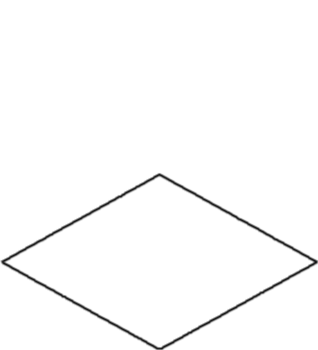
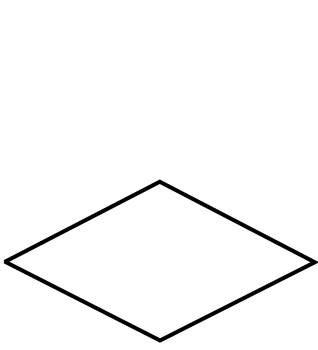
Tile selecting

Changed region(s): [[0.0, 0.4857, 1.0, 1.0]]

diff --git a/core/src/com/nicweiss/editor/Views/Editor.java b/core/src/com/nicweiss/editor/Views/Editor.java
@@ -4,30 +4,49 @@ import com.badlogic.gdx.Gdx;
 import com.badlogic.gdx.graphics.GL20;
 import com.badlogic.gdx.graphics.Texture;
 import com.badlogic.gdx.graphics.g2d.SpriteBatch;
+import com.badlogic.gdx.math.Vector3;
 import com.nicweiss.editor.Generic.View;
+import com.nicweiss.editor.Main;
 
 
 public class Editor extends View{
-    Texture tile;
-    float opacity;
-    int counter;
+    Texture dot, tile;
     int[][]  map;
-    int tileSizeX;
-    int tileSizeY;
-    int shiftX = 0;
-    int shiftY = 0;
+    int tileSizeX, tileSizeY;
+    int shiftX = 0, shiftY = 0;
+    int tileDownScale = 3;
+    int selectedTileX, selectedTileY;
 
     public Editor(){
         tile = new Texture("tile_selector.png");
-        map = new int[][] {{0, 0, 0, 0, 0, 0}, {0, 0, 0, 0, 0}, {0, 0, 0, 0, 0}, {0, 0, 0, 0, 0}, {0, 0, 0, 0}};
-        tileSizeX = 158;
-        tileSizeY = 158;
+        dot = new Texture("dot.png");
+        map = new int[][] {
+                {0, 0, 0, 0, 0, 0},
+                {0, 0, 0, 0, 0},
+                {0, 0, 0, 0, 0},
+                {0, 0, 0, 0, 0},
+                {0, 0, 0, 0}
+        };
+        tileSizeX = 158 / tileDownScale;
+        tileSizeY = 158 / tileDownScale;
         shiftY = 0 * tileSizeY;
-        shiftX = 5 * tileSizeX;
+        shiftX = map.length * tileSizeX;
     }
 
     @Override
     public boolean touchDown(int screenX, int screenY, int pointer, int button) {
+        return false;
+    }
+
+    @Override
+    public boolean mouseMoved(int screenX, int screenY) {
+        Vector3 v = Main.viewport.getCamera().unproject(new Vector3(Gdx.input.getX(), Gdx.input.getY(), 0));
+        float mouseInViewportX = v.x - shiftX - (10 / tileDownScale) ;
+        float mouseInViewportY = v.y - shiftY + (60 / tileDownScale);
+        float[] dotPoint = isometricToCartesian(mouseInViewportX, mouseInViewportY);
+        selectedTileX = (int) ((dotPoint[0]) / tileSizeX) - 1;
+        selectedTileY = (int) ((dotPoint[1]) / tileSizeY);
+//        Gdx.app.log("Debug", String.valueOf(selectedTileX) + " : " + String.valueOf(selectedTileY));
         return false;
     }
 
@@ -49,16 +68,20 @@ public class Editor extends View{
             shiftX = shiftX - tileSizeX;
         }
 
-        Gdx.app.log("Debug", String.valueOf(tileSizeX) + " : " + String.valueOf(tileSizeY));
-
         return false;
     }
 
     public float[] cartesianToIsometric(int x, int y){
         float isometricX = x - y ;
-        float isometricY = (float) ((x + y) / 1.8);
+        float isometricY = (float) ((x + y) / 2);
 
         return new float[] {isometricX, isometricY};
+    }
+
+    public float[] isometricToCartesian(float x, float y){
+        float decartX=(2*y+x)/2;
+        float decartY=(2*y-x)/2;
+        return new float[] {decartX, decartY} ;
     }
 
     public void render(SpriteBatch batch) {
@@ -67,13 +90,17 @@ public class Editor extends View{
 
         for (int i=map.length; i > 0; i--)
         {
-//            Gdx.app.log("Debug", String.valueOf(i));
             int[] subMap = map[i-1];
             for (int j=subMap.length; j > 0; j--){
                 int element = subMap[j-1];
 
+                if (i == selectedTileX && j == selectedTileY){
+                    float[] point = cartesianToIsometric((selectedTileX)*tileSizeX,(selectedTileY)*tileSizeY);
+                    batch.draw(dot, point[0] + shiftX + tileSizeX, point[1] + shiftY + tileSizeY - (80 / tileDownScale));
+                }
+
                 float[] point = cartesianToIsometric(i*tileSizeX,j*tileSizeY);
-                batch.draw(tile, point[0] + shiftX, point[1] + shiftY);
+                batch.draw(tile, point[0] + shiftX, point[1] + shiftY, tile.getWidth() / tileDownScale, tile.getHeight() / tileDownScale );
 
             }
         }

diff --git a/core/src/com/nicweiss/editor/Main.java b/core/src/com/nicweiss/editor/Main.java
@@ -17,7 +17,7 @@ import com.nicweiss.editor.Views.Logo;
 public class Main extends ApplicationAdapter {
 	SpriteBatch batch;
 
-	ExtendViewport viewport;
+	public static ExtendViewport viewport;
 	public static View view;
 	public static Store store;
 	public static OrthographicCamera camera;
@@ -32,8 +32,8 @@ public class Main extends ApplicationAdapter {
 
 		Gdx.app.setLogLevel(LOG_INFO);
 
-		width = 1920;
-		height = 1080;
+		width = Gdx.graphics.getWidth();
+		height = Gdx.graphics.getHeight();
 
 		Store.display.put("width", width);
 		Store.display.put("height", height);

diff --git a/desktop/src/com/nicweiss/editor/DesktopLauncher.java b/desktop/src/com/nicweiss/editor/DesktopLauncher.java
@@ -10,7 +10,7 @@ public class DesktopLauncher {
 		config.setForegroundFPS(60);
 		config.setWindowedMode(1366, 768);
 		config.setMaximized(true);
-		config.setWindowSizeLimits(1366, 768, 1920, 1080);
+//		config.setWindowSizeLimits(1366, 768, 1920, 1080);
 		config.useVsync(true);
 		config.setTitle("World Creator");
 		config.setWindowIcon("icon.png");
